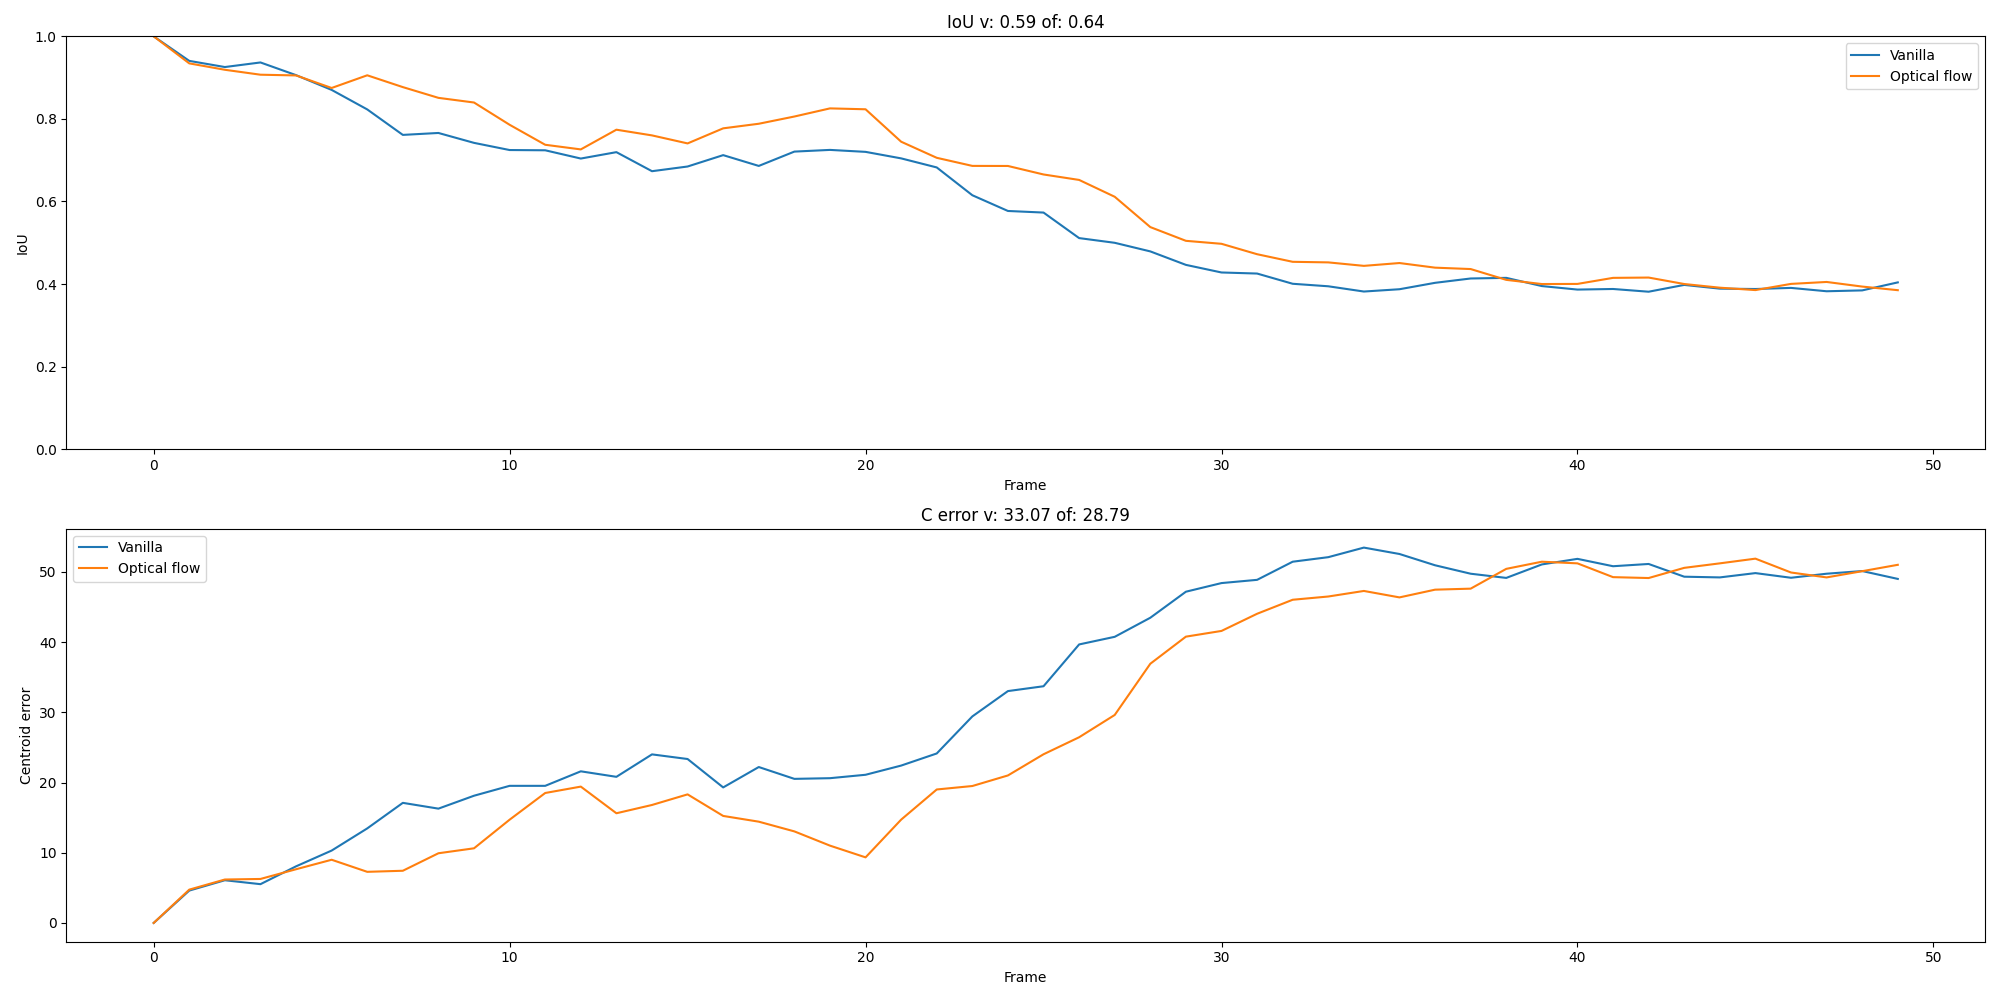
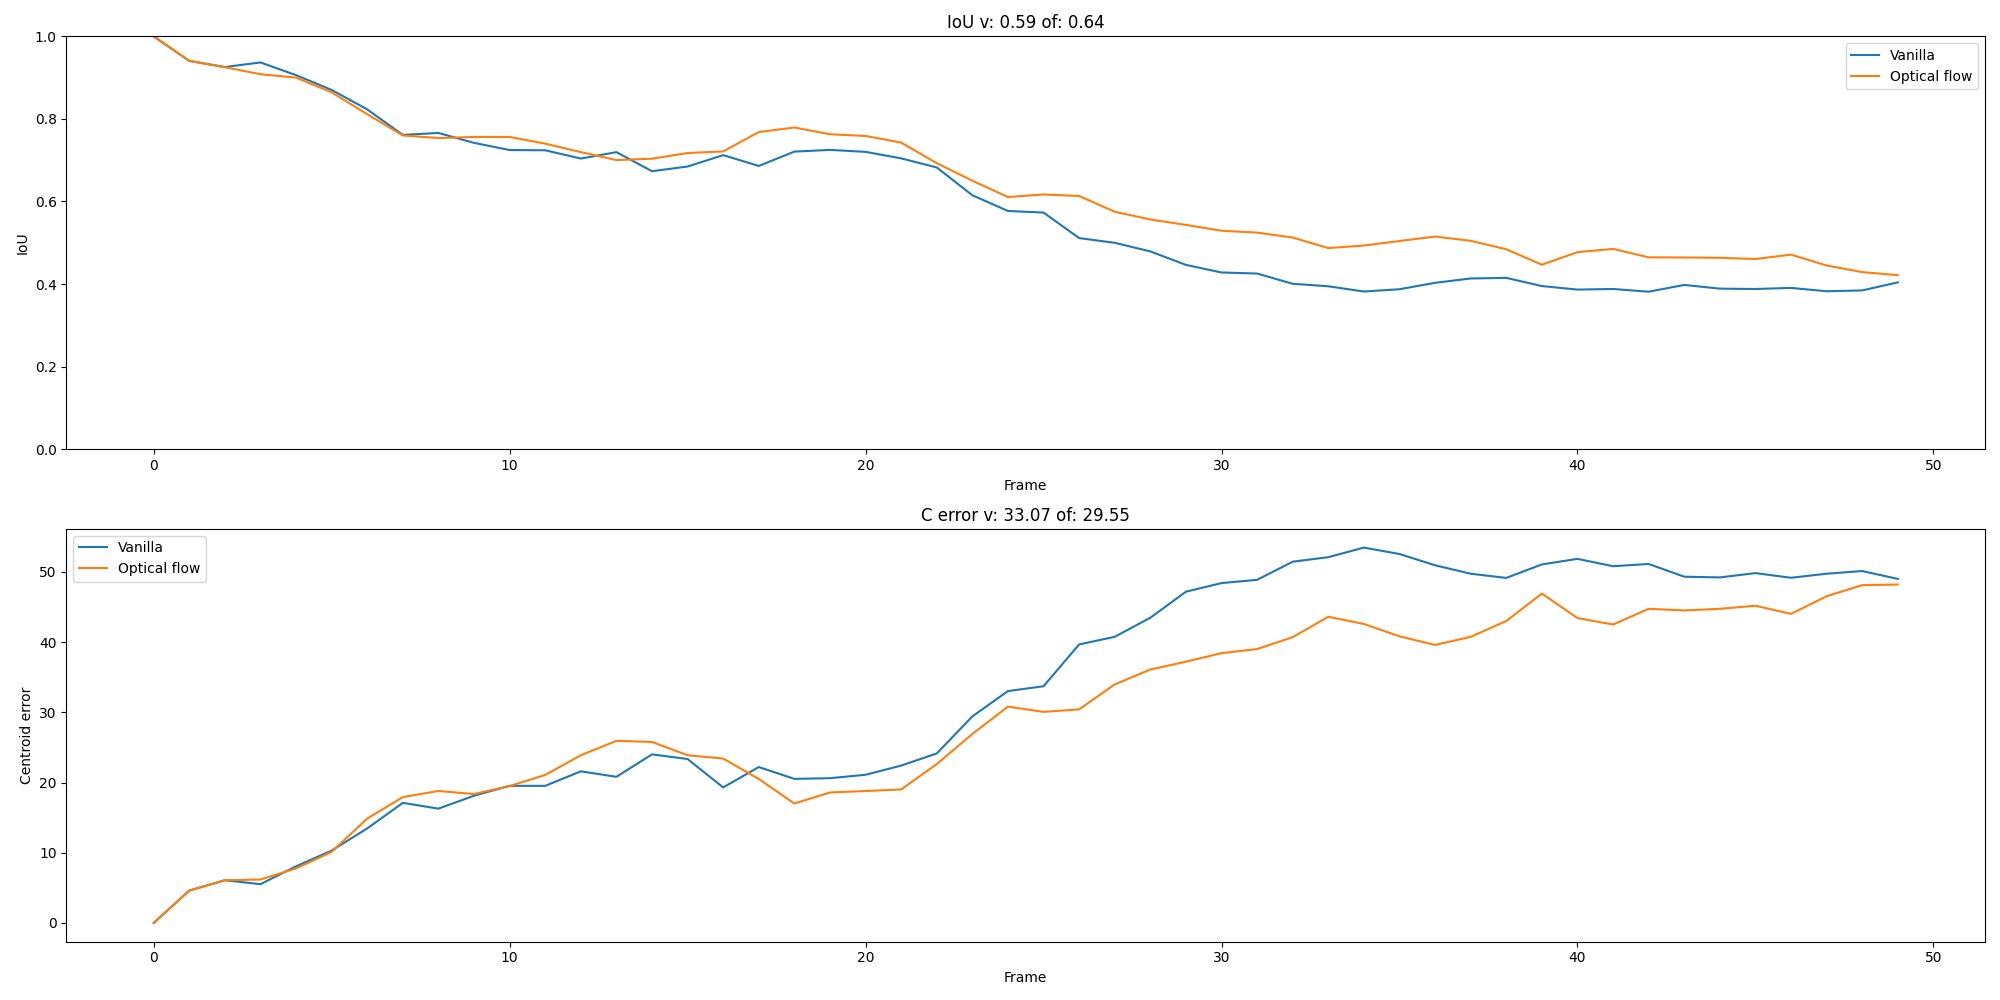
refine optical flow: median

diff --git a/eval_utils.py b/eval_utils.py
@@ -133,10 +133,10 @@ def delta_by_optical_flow(img1, img2, mode="tvl1", target_size=(32,32)):
     
     u = flow[...,0]
     v = flow[...,1]
-    # rescale to original size
-    u_mean = np.mean(u)/target_size[0] * w
-    v_mean = np.mean(v)/target_size[1] * h
-    return u_mean, v_mean
+    # compute median displacement and rescale to original image dimensions
+    u_m = np.median(u)/target_size[0] * w
+    v_m = np.median(v)/target_size[1] * h
+    return u_m, v_m
 
 if __name__ == "__main__":
     
